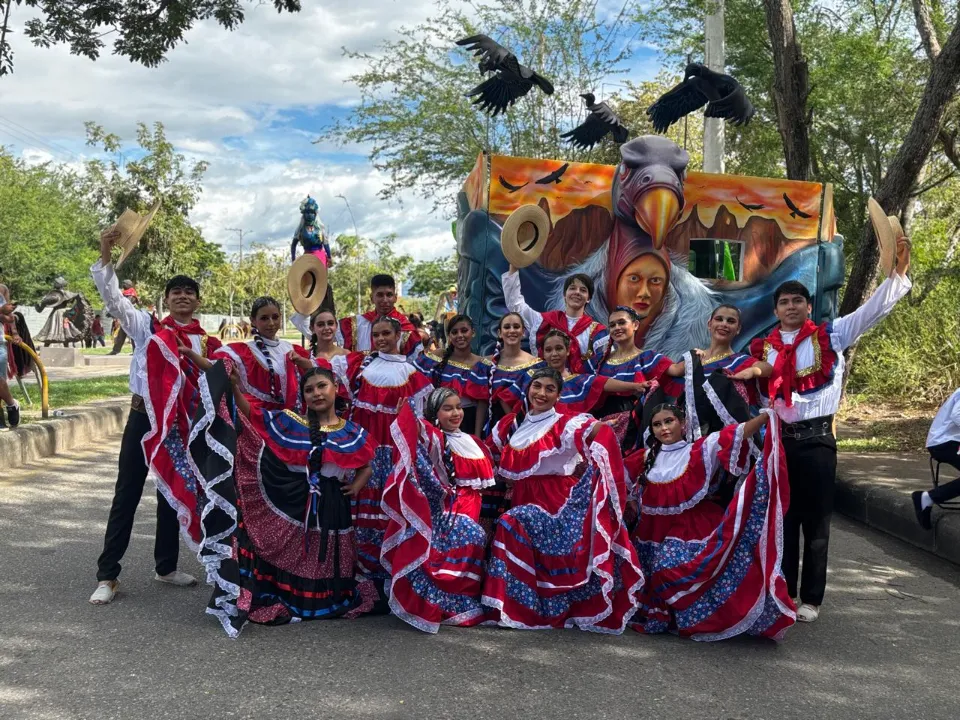
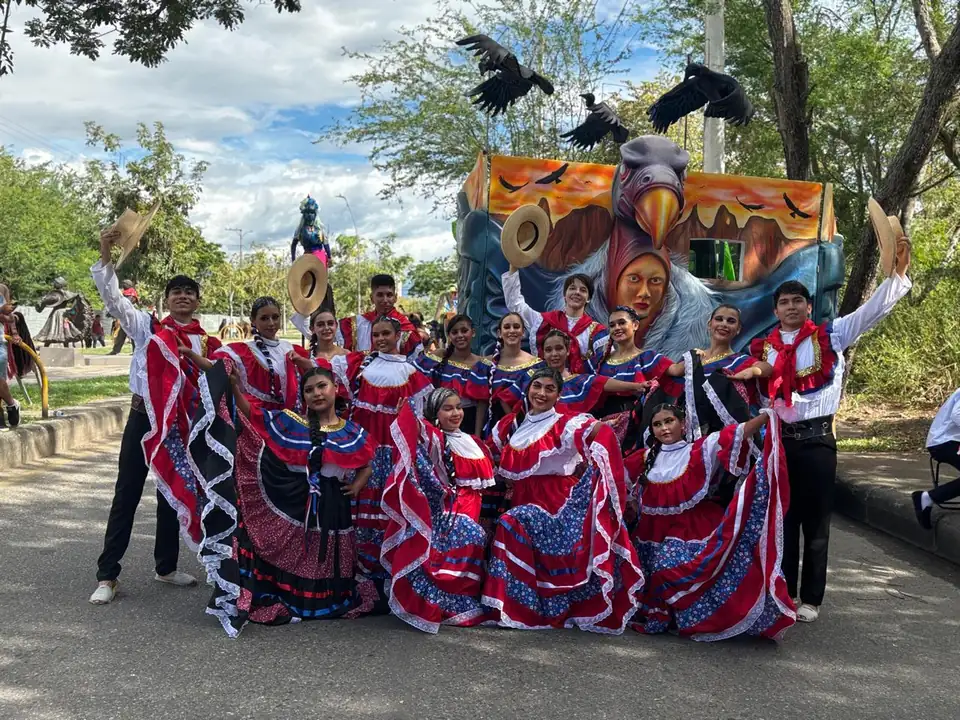
Foto principal de Siembra más liviana en celular (versión de 720 px)

Changed region(s): [[0.4688, 0.7333, 0.5, 0.7639]]

diff --git a/src/programas/siembra.html b/src/programas/siembra.html
@@ -12,7 +12,7 @@ programa: "siembra.html"
 ---
     <section class="pagina-portada program-detail-section program-detail-section--soft" id="siembra" aria-labelledby="siembra-title">
       <div class="pantalla-fondo pagina-foto" aria-hidden="true">
-        <img src="../assets/img/opt/siembra-becados-whatsapp-image-2026-06-16-at-7-03-57-am-960.webp" srcset="../assets/img/opt/siembra-becados-whatsapp-image-2026-06-16-at-7-03-57-am-480.webp 480w, ../assets/img/opt/siembra-becados-whatsapp-image-2026-06-16-at-7-03-57-am-960.webp 960w, ../assets/img/opt/siembra-becados-whatsapp-image-2026-06-16-at-7-03-57-am-1280.webp 1280w" sizes="100vw" alt="" width="1280" height="960" fetchpriority="high" decoding="async" />
+        <img src="../assets/img/opt/siembra-becados-whatsapp-image-2026-06-16-at-7-03-57-am-960.webp" srcset="../assets/img/opt/siembra-becados-whatsapp-image-2026-06-16-at-7-03-57-am-480.webp 480w, ../assets/img/opt/siembra-becados-whatsapp-image-2026-06-16-at-7-03-57-am-720.webp 720w, ../assets/img/opt/siembra-becados-whatsapp-image-2026-06-16-at-7-03-57-am-960.webp 960w, ../assets/img/opt/siembra-becados-whatsapp-image-2026-06-16-at-7-03-57-am-1280.webp 1280w" sizes="100vw" alt="" width="1280" height="960" fetchpriority="high" decoding="async" />
       </div>
 
       <div class="container program-detail-grid">
@@ -81,7 +81,7 @@ programa: "siembra.html"
             srcset="../assets/img/opt/siembra-becados-whatsapp-image-2026-06-16-at-6-53-31-am-480.webp 480w, ../assets/img/opt/siembra-becados-whatsapp-image-2026-06-16-at-6-53-31-am-960.webp 960w"
             sizes="(max-width: 760px) 87vw, 313px" alt="Joven becado acompañado en su proceso de permanencia educativa" loading="lazy" decoding="async" width="960" height="1280" />
           <img class="stage-photo stage-photo--wide" src="../assets/img/opt/siembra-becados-whatsapp-image-2026-06-16-at-7-03-57-am-960.webp"
-            srcset="../assets/img/opt/siembra-becados-whatsapp-image-2026-06-16-at-7-03-57-am-480.webp 480w, ../assets/img/opt/siembra-becados-whatsapp-image-2026-06-16-at-7-03-57-am-960.webp 960w, ../assets/img/opt/siembra-becados-whatsapp-image-2026-06-16-at-7-03-57-am-1280.webp 1280w"
+            srcset="../assets/img/opt/siembra-becados-whatsapp-image-2026-06-16-at-7-03-57-am-480.webp 480w, ../assets/img/opt/siembra-becados-whatsapp-image-2026-06-16-at-7-03-57-am-720.webp 720w, ../assets/img/opt/siembra-becados-whatsapp-image-2026-06-16-at-7-03-57-am-960.webp 960w, ../assets/img/opt/siembra-becados-whatsapp-image-2026-06-16-at-7-03-57-am-1280.webp 1280w"
             sizes="(max-width: 760px) 87vw, 594px" alt="Participantes del programa Siembra compartiendo una experiencia de aprendizaje" loading="lazy" decoding="async" width="1280" height="960" />
           <span class="stage-doodle stage-doodle--heart" aria-hidden="true"></span>
           <span class="stage-doodle stage-doodle--spark" aria-hidden="true"></span>

diff --git a/docs/PROGRESO-HU26.md b/docs/PROGRESO-HU26.md
@@ -74,7 +74,7 @@ Rama de trabajo: `hu27` (la rama `hu26` ya existía y estaba fusionada; ver `DEC
 - [x] 6.8 Redirecciones en `vercel.json`
 
 ## Fase 7 · Rendimiento
-- [!] 7.1 Objetivos Lighthouse: portada 66 → 81 (mediana con gzip), LCP 4,0 → 3,0 s; escritorio 89 a 100; accesibilidad, prácticas y SEO en 100 (404 con `noindex`). El rendimiento móvil ≥ 90 no es estable en este equipo: la misma página varía entre 65 y 95 de una corrida a otra. Intentado: GSAP diferido y por tareas, entrada solo en pantallas grandes, relleno pre-desenfocado, fondo de entrada liviano, minificación. Ver `AUDITORIA-HU26.md`.
+- [!] 7.1 Objetivos Lighthouse: portada 66 → 81 (mediana con gzip), LCP 4,0 → 3,0 s; escritorio 89 a 100; accesibilidad, prácticas y SEO en 100 (404 con `noindex`). El rendimiento móvil ≥ 90 no es estable en este equipo: la misma página varía entre 65 y 95 de una corrida a otra. Intentado: GSAP diferido y por tareas, foto principal de Siembra de 185 a 86 KB en celular (versión de 720 px), entrada solo en pantallas grandes, relleno pre-desenfocado, fondo de entrada liviano, minificación. Ver `AUDITORIA-HU26.md`.
 - [x] 7.2 Publicar solo lo que se usa y verificar referencias
 - [x] 7.3 Minificación y huellas automáticas
 - [x] 7.4 `npm run imagenes`
